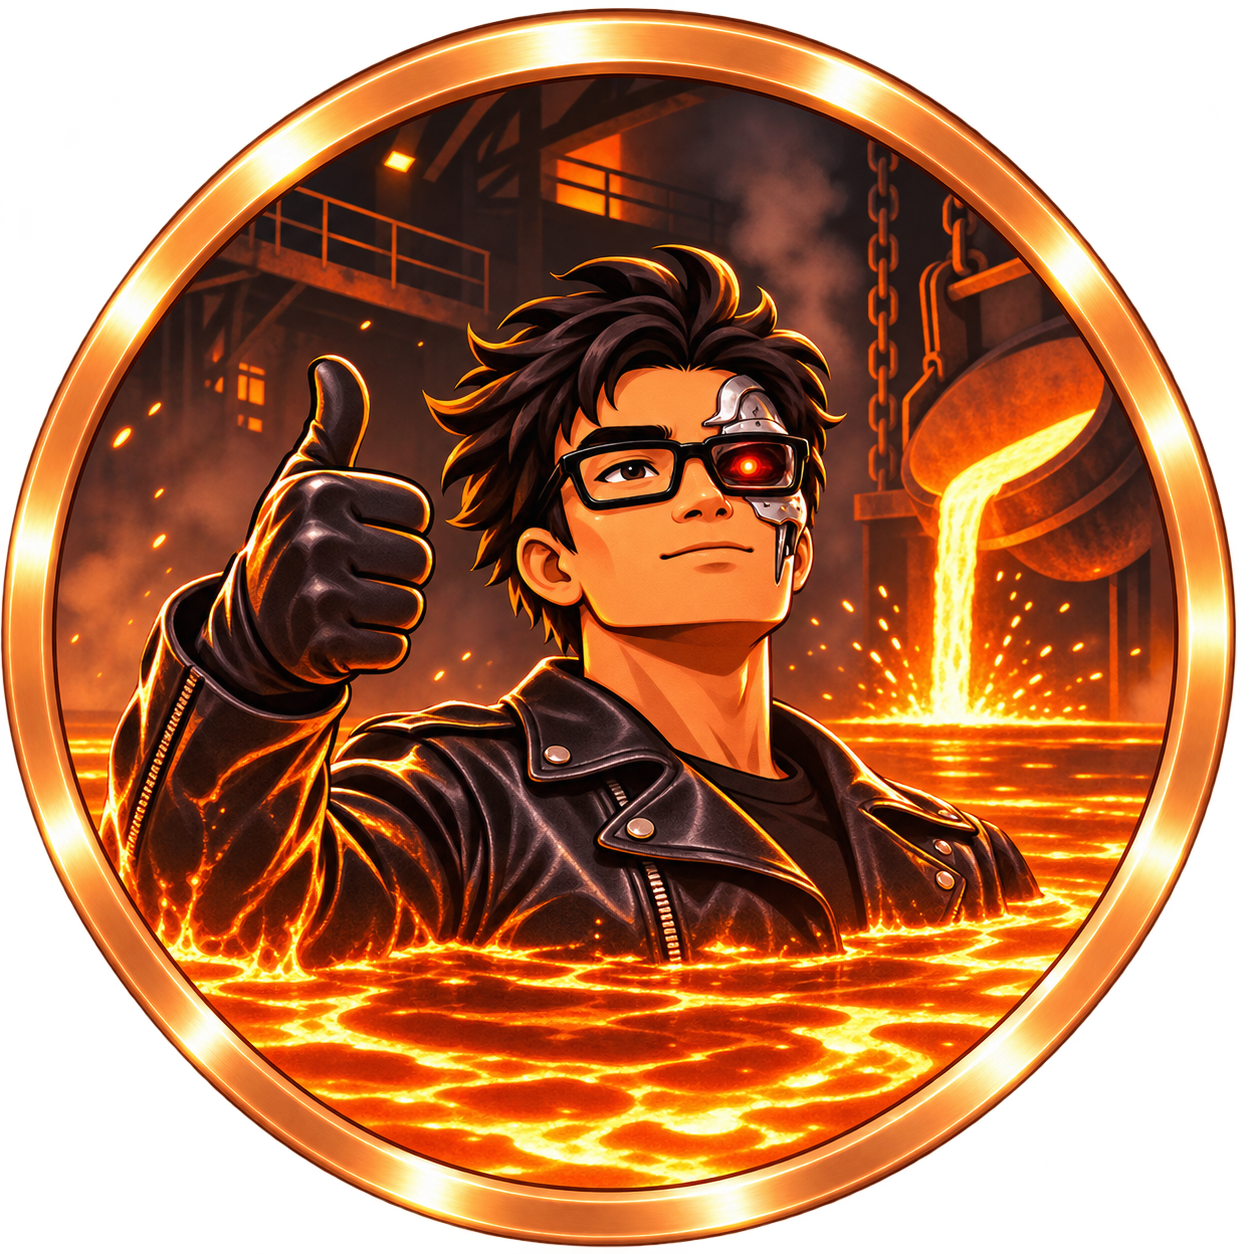
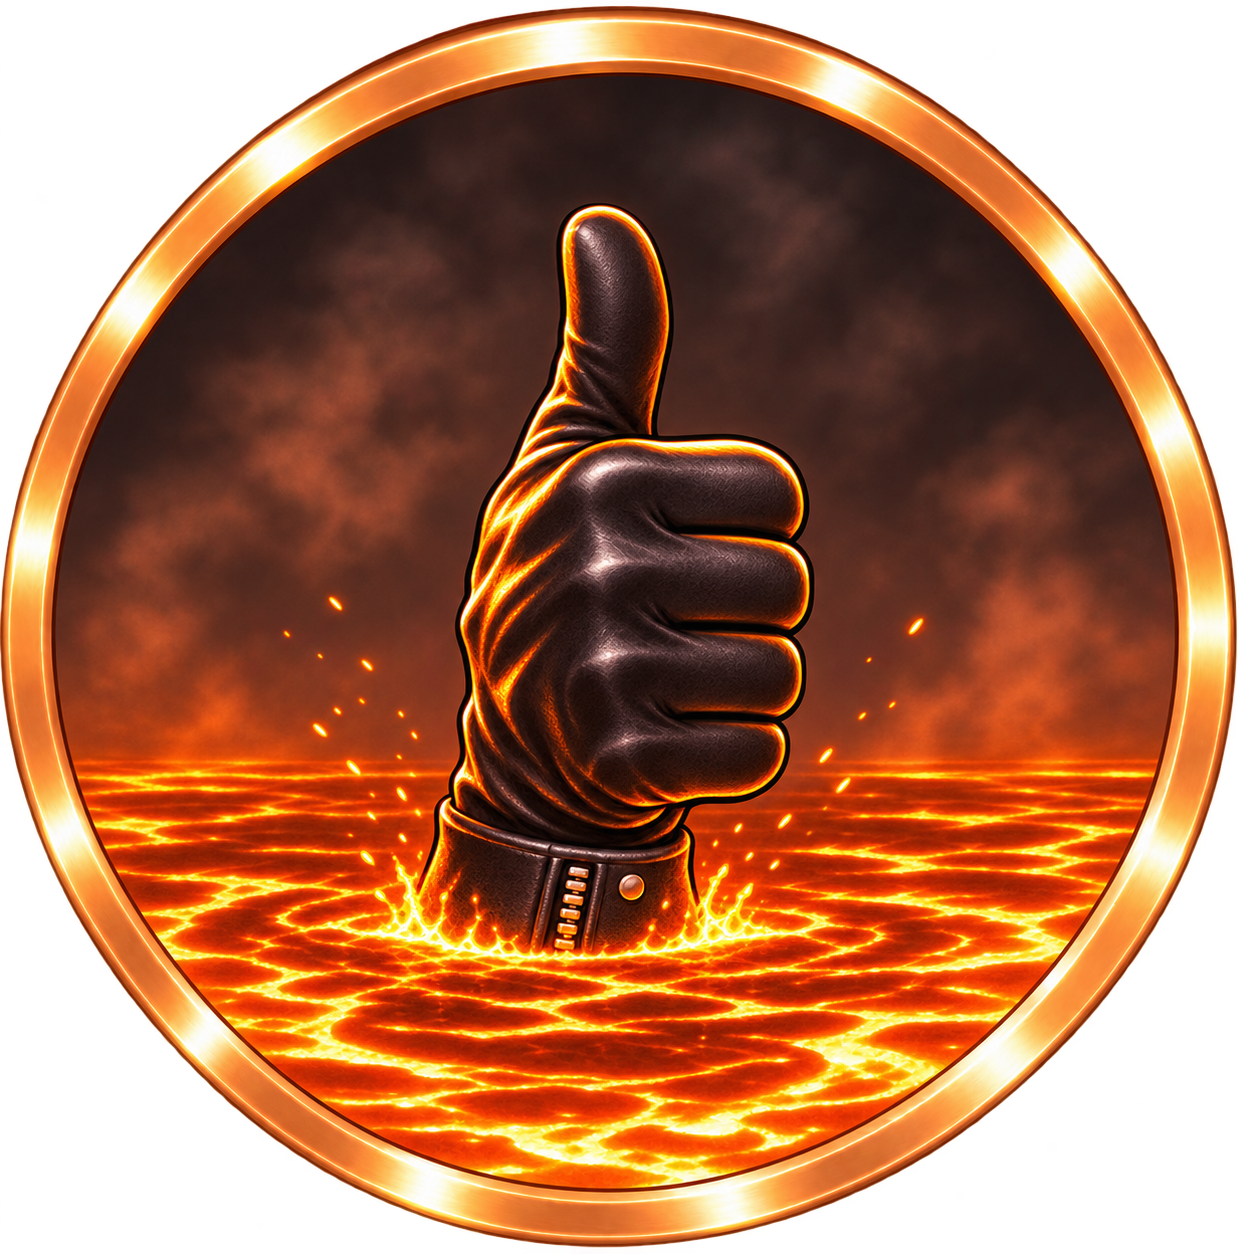
fix(achievements): simplify medal compositions

diff --git a/docs/gamification.md b/docs/gamification.md
@@ -89,9 +89,9 @@ Seller (suit meme), Formula One (racing-driver portrait), Champion (military sal
 Comeback/Negative growth (contrasting smiling and grim meme portraits), Cafeteria boss (chubby mascot
 with a fried-chicken bucket), Night owl (Anxiety character fusion), Eldin balasy (GigaChad fusion),
 Foodie (Naruto at Ichiraku with ramen and stacked bowls), On the edge (tightrope between skyscrapers),
-Iron attendance (Hannibal Lecter fusion wearing his restraint mask behind bars in a glass cell),
-Critic (Anton Ego fusion stunned after tasting ratatouille), I'll be back (Terminator fusion sinking into lava with a thumbs-up),
-Stability (mascot as a meditating monk beside three equal graph bars),
+Iron attendance (upright, front-facing Hannibal Lecter fusion wearing his restraint mask behind glass and bars),
+Critic (Anton Ego fusion stunned after tasting ratatouille against a plain background),
+I'll be back (only a gloved hand giving a thumbs-up above lava), Stability (a centered meditating monk),
 and Einstein (tongue-out portrait with wild white hair, E=mc² and a red FF on the chalkboard).
 The key mapping selects these images for earned medals and detail sheets; locked medals still use the atlas.
 Display names retain stable storage keys: `fall` is Negative growth, `thin_ice` is On the edge,
